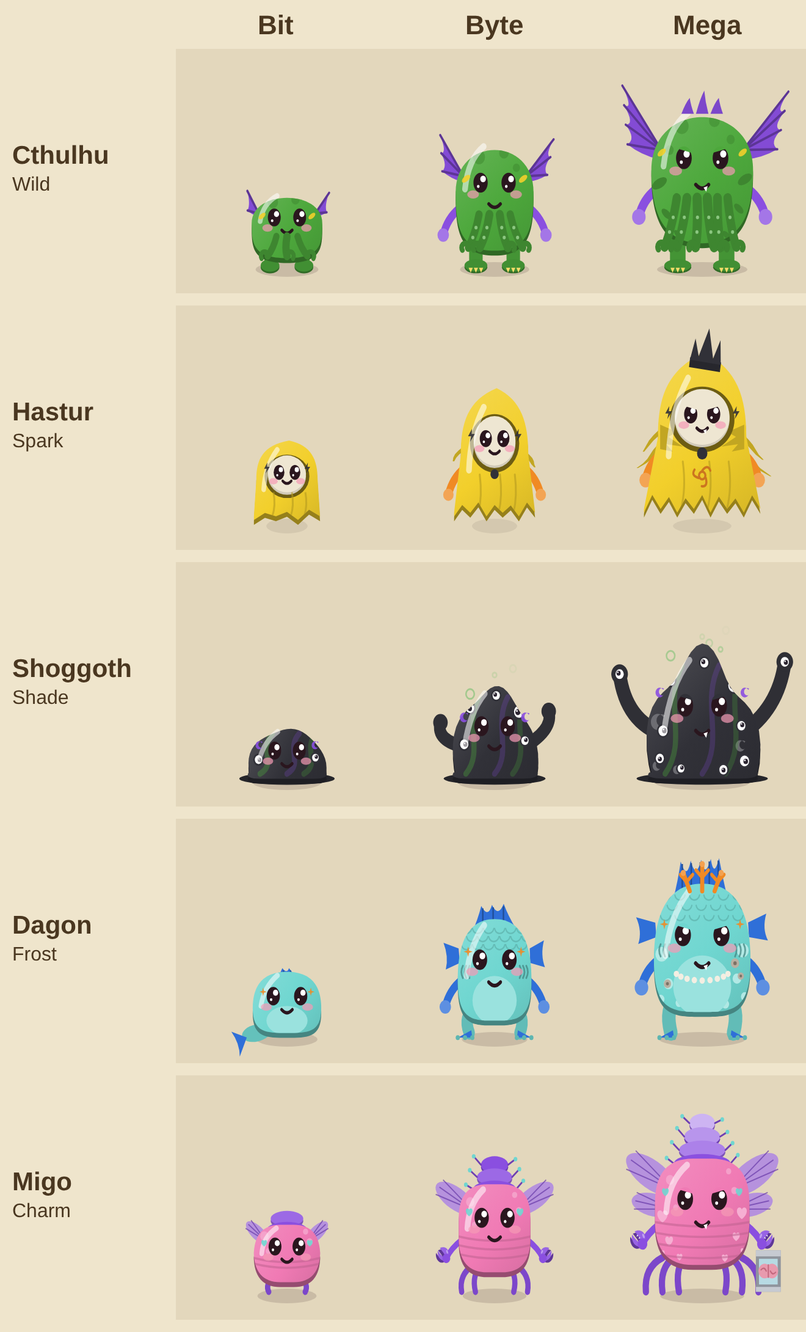
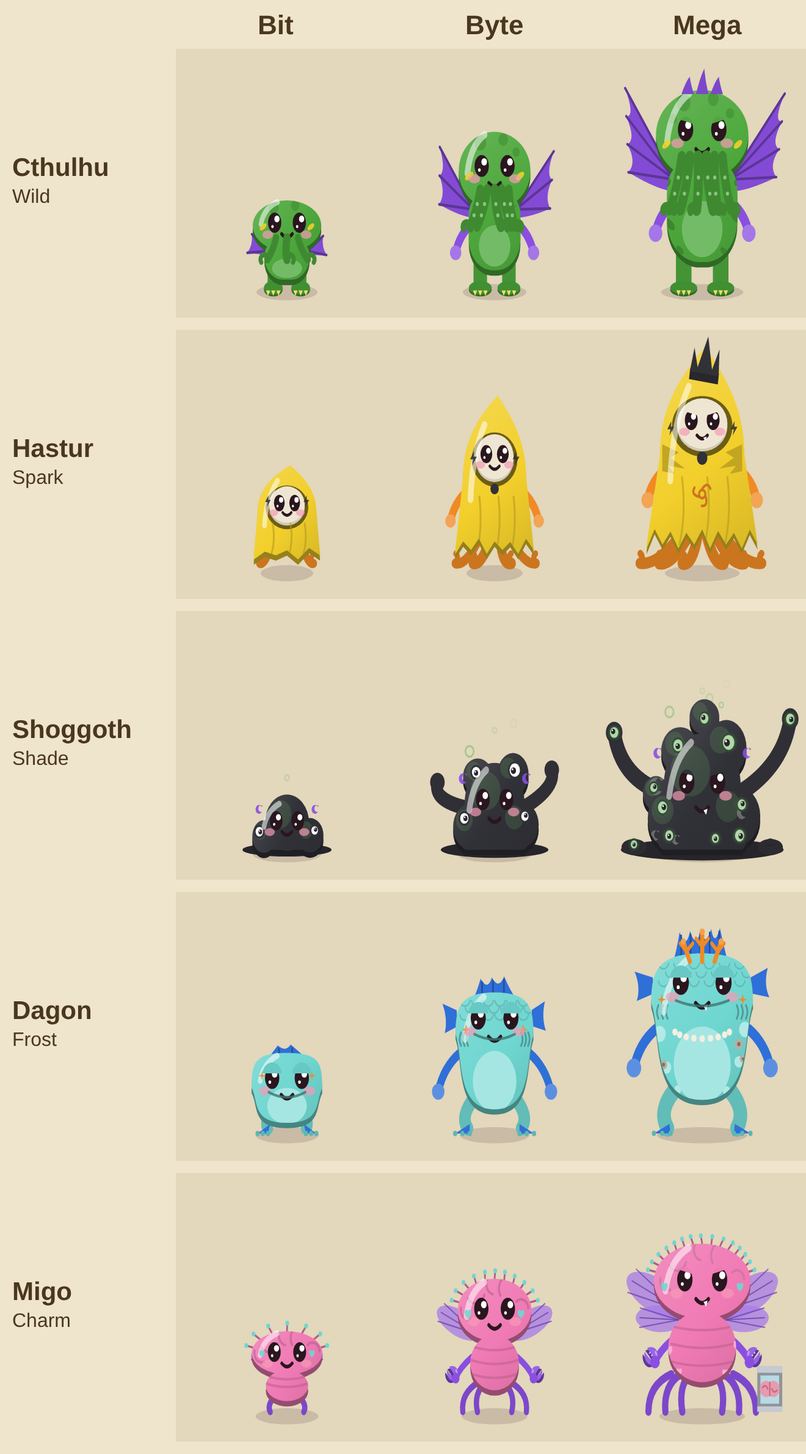
Reshape the horror five from Lovecraft's own descriptions
Cthulhu stands on a round body under its octopus head with long narrow wings, Hastur's
mantle has feelers curling out under the hem, the Shoggoth is a heap of eyed bubbles,
Dagon stands up as a frog-fish, and the Mi-Go has a wrinkled oval head covered in short
feelers on a crab body.

Claude-Session: https://claude.ai/code/session_01MQWzxVrGaM5SWzbnobBWB8

diff --git a/prototype/chibi.js b/prototype/chibi.js
@@ -3291,157 +3291,162 @@ x.feet.push([g.cx, 182, 10]); },
     },
 
     /* ---------- the horror series: cosmic horrors from the Rift, drawn cute ---------- */
-    /* Cthulhu: a squid-headed dome with a beard of face tentacles, bat wings and clawed feet. Nub wings and three tentacles; arms, suckers and bigger wings from Byte; six long tentacles, wide ribbed wings and a ridge of spines at Mega */
+    /* Cthulhu: an octopus head with a beard of feelers on a round standing body, long narrow wings and clawed feet. A big head, a small body and nub wings; arms, suckers and wings up past its head from Byte; six long feelers, towering ribbed wings and a ridge of spines at Mega */
     Cthulhu: {
-      special: true, dims: { Bit: [64, 58], Byte: [78, 78], Mega: [92, 96] }, ll: st => by(st, 6, 8, 10),
-      bottom(st) { return 182 - this.ll(st); }, height(st) { return this.dims[st][1] + this.ll(st) + by(st, 12, 18, 30); },
-      path(c, g) { const R = g.left + g.bw, p = g.bw * by(g.stage, 0.02, 0.06, 0.12); c.beginPath(); c.moveTo(g.left, g.top + g.bh * 0.45);
-        c.bezierCurveTo(g.left, g.top - g.bh * 0.08, R, g.top - g.bh * 0.08, R, g.top + g.bh * 0.45); c.bezierCurveTo(R, g.top + g.bh * 0.78, R - p, g.bot, g.cx, g.bot);
-        c.bezierCurveTo(g.left + p, g.bot, g.left, g.top + g.bh * 0.78, g.left, g.top + g.bh * 0.45); c.closePath(); },
-      arms: 'stub', armW: st => by(st, 0, 7, 8), handR: st => by(st, 0, 5.5, 6.5), shoulderY: 0.6,
-      wing(c, sx, sy, sd, span, h, ribs, col, t) { const fl = Math.sin(t / 320) * 0.12; c.save(); c.translate(sx, sy); c.scale(sd, 1); c.rotate(-0.35 - fl);
-        const tips = []; for (let k = 0; k < ribs; k++) { const f = ribs > 1 ? k / (ribs - 1) : 0; tips.push([span * (1 - f * 0.4), -h + f * h * 1.2]); }
+      special: true, dims: { Bit: [62, 66], Byte: [72, 92], Mega: [84, 112] }, ll: st => by(st, 6, 9, 11),
+      bottom(st) { return 182 - this.ll(st); }, height(st) { return this.dims[st][1] + this.ll(st) + by(st, 14, 34, 52); },
+      hh: g => g.bh * by(g.stage, 0.64, 0.56, 0.52),
+      path(c, g) { const hh = this.hh(g), tw = g.bw * by(g.stage, 0.66, 0.72, 0.76); c.beginPath(); c.ellipse(g.cx, g.top + hh / 2, g.bw / 2, hh / 2, 0, 0, 7);
+        c.moveTo(g.cx + tw / 2, g.top + hh * 0.8); c.roundRect(g.cx - tw / 2, g.top + hh * 0.8, tw, g.bot - g.top - hh * 0.8, [tw * 0.3, tw * 0.3, tw * 0.46, tw * 0.46]); },
+      arms: 'stub', armW: st => by(st, 0, 7, 8), handR: st => by(st, 0, 5.5, 6.5), shoulderY: 0.66, shoulderIn: 0.13,
+      wing(c, sx, sy, sd, span, h, ribs, col, t) { const fl = Math.sin(t / 320) * 0.08; c.save(); c.translate(sx, sy); c.scale(sd, 1); c.rotate(0.35 - fl);
+        const tips = []; for (let k = 0; k < ribs; k++) { const f = ribs > 1 ? k / (ribs - 1) : 0; tips.push([span * (0.55 + f * 0.45), -h * (1 - f * 0.75)]); }
         c.fillStyle = rgb(col); c.beginPath(); c.moveTo(0, 0); c.lineTo(tips[0][0], tips[0][1]);
-        for (let k = 1; k < ribs; k++) { const a = tips[k - 1], b = tips[k]; c.quadraticCurveTo((a[0] + b[0]) * 0.36, (a[1] + b[1]) * 0.36, b[0], b[1]); }
-        c.quadraticCurveTo(span * 0.3, h * 0.3, 0, h * 0.22); c.closePath(); c.fill();
+        for (let k = 1; k < ribs; k++) { const a = tips[k - 1], b = tips[k]; c.quadraticCurveTo((a[0] + b[0]) * 0.4, (a[1] + b[1]) * 0.4, b[0], b[1]); }
+        c.quadraticCurveTo(span * 0.4, h * 0.05, 0, h * 0.12); c.closePath(); c.fill();
         c.strokeStyle = rgb(dk(col, 0.3)); c.lineWidth = 2; c.lineCap = 'round'; for (const [px, py] of tips) { c.beginPath(); c.moveTo(0, 0); c.lineTo(px, py); c.stroke(); } c.restore(); },
-      behind(c, g, x) { const S = g.stage;
-        for (const sd of [-1, 1]) this.wing(c, g.cx + sd * g.bw * 0.4, g.top + g.bh * 0.3, sd, by(S, 18, 34, 54), by(S, 12, 22, 36), by(S, 2, 3, 4), dk(x.parts, 0.05), x.t + sd * 200);
-        for (const sd of [-1, 1]) { const fx = g.cx + sd * g.bw * 0.24, lift = Math.max(0, sd * x.walk) * 4; limb(c, [fx, g.bot - 8, fx, g.bot - 1 - lift / 2, fx, 180 - lift], by(S, 11, 13, 15), dk(x.body, 0.12), sd < 0 ? x.L.legL : x.L.legR, x.t);
+      behind(c, g, x) { const S = g.stage, hh = this.hh(g);
+        for (const sd of [-1, 1]) this.wing(c, g.cx + sd * g.bw * 0.3, g.top + hh * 1.0, sd, by(S, 18, 30, 40), by(S, 16, 54, 80), by(S, 2, 3, 4), dk(x.parts, 0.05), x.t + sd * 200);   // long, narrow wings
+        for (const sd of [-1, 1]) { const fx = g.cx + sd * g.bw * 0.2, lift = Math.max(0, sd * x.walk) * 4; limb(c, [fx, g.bot - 8, fx, g.bot - 1 - lift / 2, fx, 180 - lift], by(S, 11, 13, 15), dk(x.body, 0.12), sd < 0 ? x.L.legL : x.L.legR, x.t);
           blob(c, fx, 182 - lift, by(S, 9, 11, 13), 5, dk(x.body, 0.15), sd < 0 ? x.L.legL : x.L.legR, x.t, 'foot'); x.feet.push([fx, 182 - lift, 9]);
-          if (S !== 'Bit') { c.fillStyle = rgb(lt(x.acc, 0.3)); for (const k of [-1, 0, 1]) { const tx = fx + k * 5; c.beginPath(); c.moveTo(tx - 2, 184 - lift); c.lineTo(tx, 188 - lift); c.lineTo(tx + 2, 184 - lift); c.closePath(); c.fill(); } } } },   // little claws on its toes
-      inside(c, g, x) { const S = g.stage; c.fillStyle = rgba(dk(x.body, 0.18), 0.55);   // spots on the dome
-        for (const [fx, fy, r] of [[0.3, 0.12, 5], [0.62, 0.08, 4], [0.78, 0.22, 3], [0.18, 0.3, 3]].slice(0, by(S, 2, 3, 4))) { c.beginPath(); c.arc(g.left + g.bw * fx, g.top + g.bh * fy, r * by(S, 1, 1.15, 1.3), 0, 7); c.fill(); } },
-      front(c, g, x) { const S = g.stage, n = by(S, 3, 4, 6), y0 = g.top + g.bh * 0.66, len = by(S, 16, 27, 40), span = g.bw * by(S, 0.3, 0.4, 0.5), col = dk(x.body, 0.2);
-        if (!x.back) for (let i = 0; i < n; i++) { const f = n > 1 ? i / (n - 1) - 0.5 : 0, tx = g.cx + f * span, sw = Math.sin(x.t / 300 + i * 1.7) * 4, cu = f < 0 ? -1 : 1;   // the beard of tentacles
+          c.fillStyle = rgb(lt(x.acc, 0.3)); for (const k of [-1, 0, 1]) { const tx = fx + k * 5; c.beginPath(); c.moveTo(tx - 2, 184 - lift); c.lineTo(tx, 188 - lift); c.lineTo(tx + 2, 184 - lift); c.closePath(); c.fill(); } } },   // claws on its toes
+      inside(c, g, x) { const S = g.stage, hh = this.hh(g); c.fillStyle = rgba(dk(x.body, 0.18), 0.55);   // spots on the head
+        for (const [fx, fy, r] of [[0.3, 0.14, 5], [0.62, 0.1, 4], [0.8, 0.26, 3], [0.18, 0.32, 3]].slice(0, by(S, 2, 3, 4))) { c.beginPath(); c.arc(g.left + g.bw * fx, g.top + hh * fy, r * by(S, 1, 1.15, 1.3), 0, 7); c.fill(); }
+        c.fillStyle = rgb(lt(x.body, 0.22)); c.beginPath(); c.ellipse(g.cx, g.bot - (g.bot - g.top - hh) * 0.4, g.bw * 0.22, (g.bot - g.top - hh) * 0.34, 0, 0, 7); c.fill();   // a round belly
+        if (S !== 'Bit') { c.strokeStyle = rgba(dk(x.body, 0.2), 0.5); c.lineWidth = 1.2; for (let k = 0; k < 3; k++) { const y = g.top + hh * 0.95 + k * 7; c.beginPath(); c.moveTo(g.cx - g.bw * 0.3, y); c.lineTo(g.cx - g.bw * 0.24, y + 3); c.moveTo(g.cx + g.bw * 0.3, y); c.lineTo(g.cx + g.bw * 0.24, y + 3); c.stroke(); } } },   // scales
+      front(c, g, x) { const S = g.stage, hh = this.hh(g), n = by(S, 3, 5, 6), y0 = g.top + hh * 0.74, len = by(S, 16, 28, 40), span = g.bw * by(S, 0.32, 0.4, 0.44), col = dk(x.body, 0.18);
+        if (!x.back) for (let i = 0; i < n; i++) { const f = n > 1 ? i / (n - 1) - 0.5 : 0, tx = g.cx + f * span, sw = Math.sin(x.t / 300 + i * 1.7) * 4, cu = f < 0 ? -1 : 1;   // the beard of feelers
           const q = [tx, y0, tx + f * 6 + sw * 0.5, y0 + len * 0.6, tx + f * 10 + sw + cu * 4, y0 + len]; limb(c, q, by(S, 7, 8, 9) - Math.abs(f) * 2, col, x.L.armL, x.t);
           c.strokeStyle = rgb(col); c.lineWidth = by(S, 4, 4.5, 5); c.lineCap = 'round'; c.beginPath(); c.arc(q[4] + cu * 3, q[5], 3.5, cu > 0 ? Math.PI : 0, cu > 0 ? Math.PI * 2.2 : -Math.PI * 1.2, cu < 0); c.stroke();
           if (S !== 'Bit') { c.fillStyle = rgb(lt(x.body, 0.35)); for (const k of [0.35, 0.65]) { const p = qpt(q, k); c.beginPath(); c.arc(p[0], p[1], 1.5, 0, 7); c.fill(); } } }   // suckers
         if (S === 'Mega') { c.fillStyle = rgb(dk(x.parts, 0.1)); for (const [dx, h] of [[-14, 10], [0, 16], [14, 10]]) { c.beginPath(); c.moveTo(g.cx + dx - 6, g.top + 3); c.quadraticCurveTo(g.cx + dx - 2, g.top - h * 0.6, g.cx + dx + 2, g.top - h); c.quadraticCurveTo(g.cx + dx + 3, g.top - h * 0.4, g.cx + dx + 6, g.top + 3); c.closePath(); c.fill(); } } },   // a ridge of spines
-      hl: g => [g.left + g.bw * 0.12, g.top + g.bh * 0.42, g.left + g.bw * 0.16, g.top + g.bh * 0.14, g.left + g.bw * 0.36, g.top + g.bh * 0.02],
+      hl: g => [g.left + g.bw * 0.12, g.top + g.bh * 0.3, g.left + g.bw * 0.16, g.top + g.bh * 0.1, g.left + g.bw * 0.36, g.top + g.bh * 0.02],
       head: g => [g.cx, g.top, g.bw * 0.46],
-      face: (c, g, x, look) => faceTwo(c, g, x, look, { ey: 0.36, ex: 0.18, my: 0.56, s: by(g.stage, 0.72, 0.8, 0.88) })
+      face(c, g, x, look) { const hh = FAM.Cthulhu.hh(g); return faceTwo(c, g, x, look, { ey: hh * 0.44 / g.bh, ex: 0.18, my: hh * 0.66 / g.bh, s: by(g.stage, 0.74, 0.8, 0.86) }); }
     },
-    /* Hastur: the King in Yellow. A little hooded cloak with a pale mask peeking out and a ragged hem; sleeves, pale hands and a longer, more torn hem from Byte; a tall crooked crown, a cape of tatters and a curling sign on its chest at Mega */
+    /* Hastur: the King in Yellow. A tall hood with a pale mask in it, a ragged mantle and feelers curling out from under the hem. Two feelers; sleeves, pale hands and four feelers from Byte; a tall crooked crown, six feelers and a curling sign on its chest at Mega */
     Hastur: {
-      special: true, float: true, dims: { Bit: [56, 64], Byte: [68, 82], Mega: [80, 100] }, slots: { feet: false },
-      bottom(st) { return by(st, 176, 174, 172); }, height(st) { return this.dims[st][1] + by(st, 12, 18, 44) + (182 - this.bottom(st)); },
+      special: true, dims: { Bit: [54, 66], Byte: [64, 88], Mega: [76, 110] }, slots: { feet: false },
+      bottom(st) { return by(st, 172, 168, 164); }, height(st) { return this.dims[st][1] + by(st, 14, 20, 46) + (182 - this.bottom(st)); },
       mask: [238, 230, 210],
-      path(c, g, x) { const S = g.stage, R = g.left + g.bw, fl = g.bw * by(S, 0.04, 0.1, 0.16), n = by(S, 3, 5, 7), j = by(S, 4, 7, 10), t = x ? x.t : 0, tip = by(S, 4, 10, 14);
-        c.beginPath(); c.moveTo(g.cx + 2, g.top - tip); c.bezierCurveTo(g.cx + g.bw * 0.4, g.top, R, g.top + g.bh * 0.2, R, g.top + g.bh * 0.48); c.lineTo(R + fl, g.bot);
+      path(c, g, x) { const S = g.stage, R = g.left + g.bw, fl = g.bw * by(S, 0.06, 0.12, 0.16), n = by(S, 3, 5, 7), j = by(S, 4, 7, 10), t = x ? x.t : 0, tip = by(S, 8, 16, 22);
+        c.beginPath(); c.moveTo(g.cx + 3, g.top - tip); c.bezierCurveTo(g.cx + g.bw * 0.3, g.top + g.bh * 0.02, R, g.top + g.bh * 0.2, R, g.top + g.bh * 0.46); c.lineTo(R + fl, g.bot);
         for (let i = 1; i <= n * 2; i++) { const f = i / (n * 2), px = R + fl - f * (g.bw + fl * 2), w = Math.sin(t / 260 + i) * 1.5; c.lineTo(px, i % 2 ? g.bot - j + w : g.bot + (i % 4 === 2 ? 3 : 0)); }   // the ragged hem
-        c.lineTo(g.left - fl, g.bot); c.lineTo(g.left, g.top + g.bh * 0.48); c.bezierCurveTo(g.left, g.top + g.bh * 0.2, g.cx - g.bw * 0.4, g.top, g.cx + 2, g.top - tip); c.closePath(); },
-      arms: 'stub', armW: st => by(st, 0, 7, 8), handR: st => by(st, 0, 5, 6), shoulderY: 0.6,
+        c.lineTo(g.left - fl, g.bot); c.lineTo(g.left, g.top + g.bh * 0.46); c.bezierCurveTo(g.left, g.top + g.bh * 0.2, g.cx - g.bw * 0.3, g.top + g.bh * 0.02, g.cx + 3, g.top - tip); c.closePath(); },
+      arms: 'stub', armW: st => by(st, 0, 7, 8), handR: st => by(st, 0, 5, 6), shoulderY: 0.56,
       sign(c, cx, cy, r, col) { c.strokeStyle = col; c.lineWidth = 2; c.lineCap = 'round'; c.beginPath(); c.arc(cx, cy, r * 0.28, 0, 7); c.stroke();   // its own sign: three hooks round a ring
         for (let k = 0; k < 3; k++) { const a = k * Math.PI * 2 / 3 - Math.PI / 2; c.beginPath(); c.moveTo(cx + Math.cos(a) * r * 0.36, cy + Math.sin(a) * r * 0.36);
           c.quadraticCurveTo(cx + Math.cos(a + 0.5) * r, cy + Math.sin(a + 0.5) * r, cx + Math.cos(a + 1.1) * r * 0.8, cy + Math.sin(a + 1.1) * r * 0.8); c.stroke(); } },
-      behind(c, g, x) { const S = g.stage; if (S === 'Bit') return; const n = by(S, 0, 2, 4), col = dk(x.body, 0.2);   // tatters streaming off its back
-        for (let k = 0; k < n; k++) { const sd = k % 2 ? 1 : -1, x0 = g.cx + sd * g.bw * (0.3 + k * 0.05), y0 = g.top + g.bh * (0.35 + k * 0.08), len = by(S, 0, 22, 34) - k * 3;
-          const P = i => { const f = i / 6, w = Math.sin(x.t / 220 + k + i * 0.9) * 3 * f; return [x0 + sd * (len * f * 1.0 + w), y0 + len * f * 0.8]; };   // each strip hangs and flutters out to the side
-          c.fillStyle = rgb(col); c.beginPath(); for (let i = 0; i <= 6; i++) { const [px, py] = P(i), hw = 5 * (1 - i / 7); i ? c.lineTo(px - sd * hw, py) : c.moveTo(px - sd * hw, py); }
-          for (let i = 6; i >= 0; i--) { const [px, py] = P(i), hw = 5 * (1 - i / 7); c.lineTo(px + sd * hw, py); } c.closePath(); c.fill(); } },
-      inside(c, g, x) { const S = g.stage, mx = g.cx, my = g.top + g.bh * by(S, 0.4, 0.36, 0.34), rx = g.bw * 0.31, ry = g.bh * by(S, 0.26, 0.22, 0.2);
-        c.fillStyle = rgb(dk(x.body, 0.55)); c.beginPath(); c.ellipse(mx, my + 2, rx * 1.18, ry * 1.18, 0, 0, 7); c.fill();   // the dark inside of the hood
+      behind(c, g, x) { const S = g.stage, n = by(S, 2, 4, 6), col = dk(x.parts, 0.15), span = g.bw * by(S, 0.5, 0.7, 0.9);   // feelers curling out from under the hem
+        for (let i = 0; i < n; i++) { const f = i / (n - 1) - 0.5, sd = f < 0 ? -1 : 1, rx = g.cx + f * g.bw * 0.5, ex = g.cx + f * span * 1.4 + sd * 8, sw = Math.sin(x.t / 340 + i * 1.3) * 3;
+          const q = [rx, g.bot - 8, rx + f * span * 0.6 + sw, 180, ex + sw, 178]; limb(c, q, by(S, 8, 9, 10) - Math.abs(f) * 3, col, sd < 0 ? x.L.legL : x.L.legR, x.t);
+          c.strokeStyle = rgb(col); c.lineWidth = by(S, 4, 5, 5.5); c.lineCap = 'round'; c.beginPath(); c.arc(ex + sw + sd * 2, 174, 4, sd > 0 ? Math.PI * 0.6 : Math.PI * 0.4, sd > 0 ? -Math.PI * 0.7 : Math.PI * 1.7, sd < 0); c.stroke(); x.feet.push([ex, 180, 5]); } },
+      inside(c, g, x) { const S = g.stage, mx = g.cx, my = g.top + g.bh * by(S, 0.36, 0.3, 0.28), rx = g.bw * 0.3, ry = g.bh * by(S, 0.23, 0.17, 0.15);
+        c.fillStyle = rgb(dk(x.body, 0.55)); c.beginPath(); c.ellipse(mx, my + 2, rx * 1.2, ry * 1.2, 0, 0, 7); c.fill();   // the dark inside of the hood
         c.fillStyle = rgb(dk(this.mask, 0.12)); c.beginPath(); c.ellipse(mx, my + 2, rx, ry, 0, 0, 7); c.fill(); c.fillStyle = rgb(this.mask); c.beginPath(); c.ellipse(mx, my, rx, ry, 0, 0, 7); c.fill();   // the pale mask
-        c.strokeStyle = rgba(dk(x.body, 0.25), 0.6); c.lineWidth = 1.8; for (const f of [-0.22, 0.08, 0.3]) { c.beginPath(); c.moveTo(g.cx + g.bw * f, g.top + g.bh * 0.66); c.quadraticCurveTo(g.cx + g.bw * (f + 0.04), g.top + g.bh * 0.85, g.cx + g.bw * (f - 0.02), g.bot); c.stroke(); }   // folds
+        c.strokeStyle = rgba(dk(x.body, 0.25), 0.6); c.lineWidth = 1.8; for (const f of [-0.24, 0.06, 0.3]) { c.beginPath(); c.moveTo(g.cx + g.bw * f, g.top + g.bh * 0.6); c.quadraticCurveTo(g.cx + g.bw * (f + 0.05), g.top + g.bh * 0.82, g.cx + g.bw * (f - 0.03), g.bot); c.stroke(); }   // folds
         if (S !== 'Bit') { c.fillStyle = rgb(x.acc); c.beginPath(); c.arc(g.cx, my + ry + 7, by(S, 0, 4, 5), 0, 7); c.fill(); }   // a clasp under the mask
-        if (S === 'Mega' && !x.back) this.sign(c, g.cx, g.top + g.bh * 0.76, 11, rgb(dk(x.parts, 0.15))); },
-      front(c, g, x) { if (g.stage !== 'Mega') return; const cx = g.cx + 3, by0 = g.top - 6, col = x.acc;   // a tall, crooked crown on the hood
-        c.save(); c.translate(cx, by0); c.rotate(0.14); c.fillStyle = rgb(dk(col, 0.2)); c.fillRect(-15, -2, 30, 8); c.fillStyle = rgb(col); c.beginPath(); c.moveTo(-15, 0);
-        for (const [px, py] of [[-12, -18], [-7, -4], [0, -28], [7, -4], [12, -20], [15, 0]]) c.lineTo(px, py); c.closePath(); c.fill(); c.restore(); },
+        if (S === 'Mega' && !x.back) this.sign(c, g.cx, g.top + g.bh * 0.7, 11, rgb(dk(x.parts, 0.15))); },
+      front(c, g, x) { if (g.stage !== 'Mega') return; const cx = g.cx + 2, by0 = g.top - 2, col = x.acc;   // a tall, crooked crown on the hood
+        c.save(); c.translate(cx, by0); c.rotate(0.14); c.fillStyle = rgb(dk(col, 0.2)); c.fillRect(-14, -2, 28, 8); c.fillStyle = rgb(col); c.beginPath(); c.moveTo(-14, 0);
+        for (const [px, py] of [[-12, -18], [-7, -4], [0, -28], [7, -4], [12, -20], [14, 0]]) c.lineTo(px, py); c.closePath(); c.fill(); c.restore(); },
       hl: g => [g.left + g.bw * 0.12, g.top + g.bh * 0.62, g.left + g.bw * 0.14, g.top + g.bh * 0.3, g.left + g.bw * 0.34, g.top + g.bh * 0.06],
       head: g => [g.cx, g.top + 4, g.bw * 0.4],
-      face: (c, g, x, look) => faceTwo(c, g, x, look, { ey: by(g.stage, 0.38, 0.34, 0.32), ex: 0.13, my: by(g.stage, 0.5, 0.45, 0.42), lidCol: FAM.Hastur.mask, s: by(g.stage, 0.6, 0.68, 0.74) })
+      face: (c, g, x, look) => faceTwo(c, g, x, look, { ey: by(g.stage, 0.34, 0.28, 0.26), ex: 0.13, my: by(g.stage, 0.46, 0.37, 0.35), lidCol: FAM.Hastur.mask, s: by(g.stage, 0.6, 0.66, 0.72) })
     },
-    /* Shoggoth: a heap of dark goo dotted with blinking eyes. A low puddle-blob with two spare eyes; a taller heap, more eyes, two reaching blobs and bubbles from Byte; a tall lumpy mound with nine eyes and eyes on the ends of its blobs at Mega */
+    /* Shoggoth: a heap of bubbling goo with eyes forming all over it. Three bubbles and two spare eyes; five bubbles, more eyes and two reaching blobs from Byte; seven bubbles, eyes that glow, blobs with eyes on the ends and goo spreading over the ground at Mega */
     Shoggoth: {
-      special: true, dims: { Bit: [70, 46], Byte: [82, 66], Mega: [96, 90] }, slots: { feet: false },
+      special: true, dims: { Bit: [70, 50], Byte: [84, 70], Mega: [100, 92] }, slots: { feet: false },
       bottom() { return 182; }, height(st) { return this.dims[st][1] + by(st, 8, 16, 26); },
-      path(c, g, x) { const t = x ? x.t : 0, base = g.bot - 5, rx = g.bw / 2, ry = g.bh - 5, lump = by(g.stage, 0.03, 0.06, 0.1), n = 30; c.beginPath();
-        for (let i = 0; i <= n; i++) { const a = Math.PI + i / n * Math.PI, w = 1 + lump * Math.sin(a * 5 + t / 400) + 0.03 * Math.sin(a * 3 - t / 300); const px = g.cx + Math.cos(a) * rx * w, py = base + Math.sin(a) * ry * w;
-          i ? c.lineTo(px, py) : c.moveTo(px, py); }
-        c.quadraticCurveTo(g.cx + rx * 1.1, g.bot, g.cx + rx * 0.7, g.bot); c.lineTo(g.cx - rx * 0.7, g.bot); c.quadraticCurveTo(g.cx - rx * 1.1, g.bot, g.cx - rx, base); c.closePath(); },
-      eyeAt(c, px, py, r, t, k, lidCol) { const shut = (t + k * 913) % 3400 < 140; c.fillStyle = rgb(lidCol); c.beginPath(); c.arc(px, py, r + 1.5, 0, 7); c.fill();
+      bubbles(g) { const S = g.stage, W = g.bw, H = g.bh, B = g.bot;   // [x, y, r] as fractions: one big middle bubble and smaller ones heaped round it
+        const L = [[0.5, 0.55, 0.36], [0.2, 0.78, 0.2], [0.8, 0.76, 0.22], [0.3, 0.3, 0.17], [0.72, 0.28, 0.19], [0.08, 0.6, 0.12], [0.52, 0.06, 0.13]];
+        return L.slice(0, by(S, 3, 5, 7)).map(([fx, fy, fr]) => [g.left + W * fx, g.top + H * fy, Math.min(W, H * 1.3) * fr]); },
+      path(c, g, x) { const t = x ? x.t : 0; c.beginPath(); this.bubbles(g).forEach(([bx, by0, r], k) => { const w = 1 + 0.04 * Math.sin(t / 300 + k * 1.7); c.moveTo(bx + r * w, by0); c.ellipse(bx, by0, r * w, r * (2 - w), 0, 0, 7); });
+        c.moveTo(g.left + g.bw * 0.9, g.bot); c.roundRect(g.left + g.bw * 0.1, g.top + g.bh * 0.62, g.bw * 0.8, g.bh * 0.38, 6); },
+      eyeAt(c, px, py, r, t, k, lidCol, glow) { const shut = (t + k * 913) % 3400 < 140; c.fillStyle = rgb(lidCol); c.beginPath(); c.arc(px, py, r + 1.5, 0, 7); c.fill();
         if (shut) { c.strokeStyle = '#2b2430'; c.lineWidth = 1.4; c.beginPath(); c.moveTo(px - r, py); c.quadraticCurveTo(px, py + r * 0.5, px + r, py); c.stroke(); return; }
-        c.fillStyle = '#fff'; c.beginPath(); c.arc(px, py, r, 0, 7); c.fill(); const ox = Math.sin(t / 900 + k) * r * 0.3, oy = Math.cos(t / 700 + k * 2) * r * 0.2;
+        if (glow) { c.save(); c.shadowColor = rgba(glow, 0.9); c.shadowBlur = 6; } c.fillStyle = glow ? rgb(lt(glow, 0.55)) : '#fff'; c.beginPath(); c.arc(px, py, r, 0, 7); c.fill(); if (glow) c.restore();
+        const ox = Math.sin(t / 900 + k) * r * 0.3, oy = Math.cos(t / 700 + k * 2) * r * 0.2;
         c.fillStyle = '#2b2430'; c.beginPath(); c.arc(px + ox, py + oy, r * 0.5, 0, 7); c.fill(); c.fillStyle = '#fff'; c.beginPath(); c.arc(px + ox - r * 0.18, py + oy - r * 0.2, r * 0.16, 0, 7); c.fill(); },
-      behind(c, g, x) { const S = g.stage; c.fillStyle = rgb(dk(x.body, 0.25)); c.beginPath(); c.ellipse(g.cx, 182, g.bw * 0.62, 5, 0, 0, 7); c.fill();   // the puddle it sits in
-        if (S !== 'Bit') for (const sd of [-1, 1]) { const sw = Math.sin(x.t / 380 + sd) * 6, q = [g.cx + sd * g.bw * 0.36, g.bot - g.bh * 0.35, g.cx + sd * g.bw * 0.72, g.bot - g.bh * 0.5 + sw, g.cx + sd * g.bw * by(S, 0, 0.66, 0.78), g.top + g.bh * by(S, 0, 0.3, 0.12) + sw];   // reaching blobs
+      behind(c, g, x) { const S = g.stage; c.fillStyle = rgb(dk(x.body, 0.25)); c.beginPath(); c.ellipse(g.cx, 182, g.bw * by(S, 0.58, 0.64, 0.74), by(S, 5, 6, 8), 0, 0, 7); c.fill();   // goo spreading round it
+        if (S === 'Mega') for (const sd of [-1, 1]) { c.fillStyle = rgb(dk(x.body, 0.12)); c.beginPath(); c.ellipse(g.cx + sd * g.bw * 0.62, 180, 12, 6, 0, 0, 7); c.fill(); this.eyeAt(c, g.cx + sd * g.bw * 0.62, 178, 3, x.t, sd + 9, dk(x.body, 0.12), x.parts); }
+        if (S !== 'Bit') for (const sd of [-1, 1]) { const sw = Math.sin(x.t / 380 + sd) * 6, q = [g.cx + sd * g.bw * 0.34, g.bot - g.bh * 0.4, g.cx + sd * g.bw * 0.74, g.bot - g.bh * 0.55 + sw, g.cx + sd * g.bw * by(S, 0, 0.68, 0.8), g.top + g.bh * by(S, 0, 0.28, 0.12) + sw];   // reaching blobs
           limb(c, q, by(S, 0, 11, 13), dk(x.body, 0.05), sd < 0 ? x.L.armL : x.L.armR, x.t); c.fillStyle = rgb(dk(x.body, 0.05)); c.beginPath(); c.arc(q[4], q[5], by(S, 0, 7, 8), 0, 7); c.fill();
-          if (S === 'Mega') this.eyeAt(c, q[4], q[5], 4, x.t, sd + 5, dk(x.body, 0.05)); }
-        if (S !== 'Bit') for (let k = 0; k < by(S, 0, 3, 5); k++) { const p = ((x.t / 1600) + k / 5) % 1, bx = g.cx + Math.sin(k * 2.3) * g.bw * 0.3, byy = g.top + 6 - p * 26;   // bubbles
+          if (S === 'Mega') this.eyeAt(c, q[4], q[5], 4, x.t, sd + 5, dk(x.body, 0.05), x.parts); }
+        for (let k = 0; k < by(S, 1, 3, 5); k++) { const p = ((x.t / 1600) + k / 5) % 1, bx = g.cx + Math.sin(k * 2.3) * g.bw * 0.3, byy = g.top + 6 - p * 26;   // bubbles popping off the top
           c.strokeStyle = rgba(lt(x.parts, 0.3), 0.7 * (1 - p)); c.lineWidth = 1.5; c.beginPath(); c.arc(bx, byy, 2 + k % 3, 0, 7); c.stroke(); } },
-      inside(c, g, x) { const S = g.stage; c.lineCap = 'round';
-        for (const [f, col, a] of [[0.25, x.parts, 0.35], [0.6, x.acc, 0.22], [0.82, x.parts, 0.25]]) { c.strokeStyle = rgba(col, a); c.lineWidth = 5; c.beginPath(); c.moveTo(g.left + g.bw * (f - 0.1), g.bot - 4);   // an oily sheen
-          c.bezierCurveTo(g.left + g.bw * (f + 0.12), g.top + g.bh * 0.7, g.left + g.bw * (f - 0.12), g.top + g.bh * 0.4, g.left + g.bw * (f + 0.06), g.top + g.bh * 0.1); c.stroke(); }
-        const E = [[0.13, 0.62, 4], [0.87, 0.58, 3.5], [0.2, 0.22, 4], [0.8, 0.26, 5], [0.52, 0.08, 3.5], [0.1, 0.84, 3.5], [0.9, 0.86, 4], [0.3, 0.92, 3], [0.7, 0.93, 3.5]];
-        if (!x.back) E.slice(0, by(S, 2, 5, 9)).forEach(([fx, fy, r], k) => this.eyeAt(c, g.left + g.bw * fx, g.top + g.bh * fy, r * by(S, 0.9, 1, 1.1), x.t, k, x.body)); },
-      hl: g => [g.left + g.bw * 0.14, g.top + g.bh * 0.62, g.left + g.bw * 0.2, g.top + g.bh * 0.26, g.left + g.bw * 0.38, g.top + g.bh * 0.06],
-      head: g => [g.cx, g.top + 4, g.bw * 0.42],
-      face: (c, g, x, look) => faceTwo(c, g, x, look, { ey: by(g.stage, 0.44, 0.42, 0.42), ex: 0.16, my: by(g.stage, 0.7, 0.64, 0.62), s: by(g.stage, 0.72, 0.8, 0.88) })
+      inside(c, g, x) { const S = g.stage;
+        for (const [bx, by0, r] of this.bubbles(g)) { c.fillStyle = rgba(lt(x.parts, 0.2), 0.18); c.beginPath(); c.arc(bx - r * 0.3, by0 - r * 0.3, r * 0.5, 0, 7); c.fill(); }   // a sheen on each bubble
+        const E = [[0.14, 0.7, 4], [0.86, 0.68, 3.5], [0.28, 0.26, 4], [0.74, 0.24, 5], [0.52, 0.07, 3.5], [0.2, 0.9, 3.5], [0.84, 0.9, 4], [0.06, 0.56, 3], [0.62, 0.92, 3]];
+        if (!x.back) E.slice(0, by(S, 2, 5, 9)).forEach(([fx, fy, r], k) => this.eyeAt(c, g.left + g.bw * fx, g.top + g.bh * fy, r * by(S, 0.9, 1, 1.1), x.t, k, x.body, S === 'Mega' ? x.parts : null)); },
+      hl: g => [g.left + g.bw * 0.2, g.top + g.bh * 0.62, g.left + g.bw * 0.24, g.top + g.bh * 0.36, g.left + g.bw * 0.4, g.top + g.bh * 0.24],
+      head: g => [g.cx, g.top + g.bh * 0.2, g.bw * 0.36],
+      face: (c, g, x, look) => faceTwo(c, g, x, look, { ey: 0.52, ex: 0.14, my: 0.7, s: by(g.stage, 0.7, 0.78, 0.86) })
     },
-    /* Dagon: a deep one. A round fish with a little fin on top and a tail; frog legs with webbed feet, arms, ear fins, a crest down its back and gills from Byte; a tall crest, a coral crown, a pearl string and barnacles at Mega */
+    /* Dagon: a deep one, a frog-fish that stands like a person. A round fish head-body with bulging eyes and stubby legs; a taller body, long webbed arms, bent frog legs, gills, a fin down its back and a scaly back from Byte; a coral crown, a string of pearls and barnacles at Mega */
     Dagon: {
-      special: true, dims: { Bit: [62, 56], Byte: [74, 74], Mega: [88, 92] }, ll: st => by(st, 0, 8, 11),
-      bottom(st) { return st === 'Bit' ? 180 : 182 - this.ll(st); }, height(st) { return this.dims[st][1] + (182 - this.bottom(st)) + by(st, 10, 16, 30); },
-      path(c, g) { const R = g.left + g.bw; c.beginPath(); c.moveTo(g.cx, g.top); c.bezierCurveTo(g.cx + g.bw * 0.42, g.top, R, g.top + g.bh * 0.32, R, g.top + g.bh * 0.6);
-        c.bezierCurveTo(R, g.bot, g.cx + g.bw * 0.3, g.bot, g.cx, g.bot); c.bezierCurveTo(g.cx - g.bw * 0.3, g.bot, g.left, g.bot, g.left, g.top + g.bh * 0.6); c.bezierCurveTo(g.left, g.top + g.bh * 0.32, g.cx - g.bw * 0.42, g.top, g.cx, g.top); c.closePath(); },
-      arms: 'stub', armW: st => by(st, 0, 7, 8), handR: st => by(st, 0, 5.5, 6.5), shoulderY: 0.6,
+      special: true, dims: { Bit: [64, 58], Byte: [78, 78], Mega: [92, 96] }, ll: st => by(st, 6, 12, 15),
+      bottom(st) { return 182 - this.ll(st); }, height(st) { return this.dims[st][1] + this.ll(st) + by(st, 14, 22, 34); },
+      path(c, g) { const R = g.left + g.bw, sh = by(g.stage, 0.5, 0.36, 0.34); c.beginPath(); c.moveTo(g.cx, g.top); c.bezierCurveTo(g.cx + g.bw * 0.46, g.top, R, g.top + g.bh * 0.14, R, g.top + g.bh * sh);   // a wide fish head running into a pear body
+        c.bezierCurveTo(R - g.bw * 0.1, g.top + g.bh * (sh + 0.2), R, g.bot, g.cx, g.bot); c.bezierCurveTo(g.left, g.bot, g.left + g.bw * 0.1, g.top + g.bh * (sh + 0.2), g.left, g.top + g.bh * sh);
+        c.bezierCurveTo(g.left, g.top + g.bh * 0.14, g.cx - g.bw * 0.46, g.top, g.cx, g.top); c.closePath(); },
+      arms: 'stub', armW: st => by(st, 0, 7, 8), handR: st => by(st, 0, 6, 7), shoulderY: 0.52, armK: 1.3,
       fin(c, x0, y0, x1, y1, h, n, col, t) { const pts = []; for (let i = 0; i <= n; i++) { const f = i / n; pts.push([x0 + (x1 - x0) * f, y0 + (y1 - y0) * f]); }   // a webbed fin with spines
         c.fillStyle = rgb(col); c.beginPath(); c.moveTo(x0, y0); for (let i = 1; i <= n; i++) { const [px, py] = pts[i], [qx, qy] = pts[i - 1], w = Math.sin(t / 300 + i) * 1.5; c.quadraticCurveTo((px + qx) / 2, (py + qy) / 2 - h * 0.45, px + w, py - h * (i < n ? 1 : 0)); }
         c.lineTo(x1, y1); c.closePath(); c.fill(); c.strokeStyle = rgb(dk(col, 0.3)); c.lineWidth = 1.4; for (let i = 1; i < n; i++) { const [px, py] = pts[i]; c.beginPath(); c.moveTo(px, py + 3); c.lineTo(px, py - h + 2); c.stroke(); } },
       behind(c, g, x) { const S = g.stage, fc = x.parts;
-        if (S === 'Bit') { const sw = Math.sin(x.t / 260) * 0.25; c.save(); c.translate(g.left + g.bw * 0.2, g.bot - 8); c.rotate(-0.3 + sw); c.fillStyle = rgb(dk(x.body, 0.1)); c.beginPath(); c.ellipse(-12, 4, 14, 7, 0.2, 0, 7); c.fill();   // a tail
-          c.fillStyle = rgb(fc); c.beginPath(); c.moveTo(-22, 4); c.lineTo(-34, -6); c.quadraticCurveTo(-30, 6, -34, 16); c.closePath(); c.fill(); c.restore();
-          this.fin(c, g.cx - 10, g.top + 6, g.cx + 10, g.top + 6, 9, 3, fc, x.t); return; }
-        this.fin(c, g.cx - g.bw * 0.3, g.top + g.bh * 0.12, g.cx + g.bw * 0.26, g.top + g.bh * 0.08, by(S, 0, 20, 30), by(S, 0, 4, 6), fc, x.t);   // the crest
-        for (const sd of [-1, 1]) { c.save(); c.translate(g.cx + sd * g.bw * 0.48, g.top + g.bh * 0.36); c.scale(sd, 1); c.rotate(Math.sin(x.t / 400 + sd) * 0.1); c.fillStyle = rgb(fc); c.beginPath(); c.moveTo(0, -6);   // ear fins
-          c.lineTo(by(S, 0, 14, 18), -12); c.quadraticCurveTo(by(S, 0, 10, 13), 0, by(S, 0, 14, 18), 10); c.lineTo(0, 6); c.closePath(); c.fill(); c.restore(); }
-        for (const sd of [-1, 1]) { const hx = g.cx + sd * g.bw * 0.26, fx = hx + sd * 6, lift = Math.max(0, sd * x.walk) * 4;   // frog legs with webbed feet
-          limb(c, [hx, g.bot - 10, hx + sd * 12, g.bot - 4, fx, 180 - lift], by(S, 0, 11, 13), dk(x.body, 0.12), sd < 0 ? x.L.legL : x.L.legR, x.t);
-          c.fillStyle = rgb(fc); c.beginPath(); c.moveTo(fx - sd * 2, 178 - lift); for (const k of [-1, 0, 1]) c.lineTo(fx + sd * 4 + k * 7, 184 - lift); c.closePath(); c.fill();
-          c.fillStyle = rgb(dk(x.body, 0.15)); for (const k of [-1, 0, 1]) { c.beginPath(); c.arc(fx + sd * 4 + k * 7, 184 - lift, 2, 0, 7); c.fill(); } x.feet.push([fx, 182 - lift, 9]); } },
-      inside(c, g, x) { const S = g.stage; c.fillStyle = rgb(lt(x.body, 0.3)); c.beginPath(); c.ellipse(g.cx, g.bot - g.bh * 0.2, g.bw * 0.3, g.bh * 0.24, 0, 0, 7); c.fill();   // a pale belly
-        if (S !== 'Bit') { c.strokeStyle = rgba(dk(x.body, 0.25), 0.5); c.lineWidth = 1.2; for (let r = 0; r < 3; r++) for (let k = 0; k < 6; k++) { const px = g.left + g.bw * (0.12 + k * 0.15 + (r % 2) * 0.07), py = g.top + g.bh * (0.08 + r * 0.08);   // scales
+        this.fin(c, g.cx - g.bw * 0.3, g.top + g.bh * 0.1, g.cx + g.bw * 0.26, g.top + g.bh * 0.06, by(S, 10, 18, 26), by(S, 3, 4, 6), fc, x.t);   // the fin over its head
+        if (S !== 'Bit') for (const sd of [-1, 1]) { c.save(); c.translate(g.cx + sd * g.bw * 0.48, g.top + g.bh * 0.22); c.scale(sd, 1); c.rotate(Math.sin(x.t / 400 + sd) * 0.1); c.fillStyle = rgb(fc); c.beginPath(); c.moveTo(0, -6);   // fins where ears would be
+          c.lineTo(by(S, 0, 13, 17), -12); c.quadraticCurveTo(by(S, 0, 9, 12), 0, by(S, 0, 13, 17), 10); c.lineTo(0, 6); c.closePath(); c.fill(); c.restore(); }
+        for (const sd of [-1, 1]) { const hx = g.cx + sd * g.bw * 0.24, fx = hx + sd * by(S, 2, 8, 10), lift = Math.max(0, sd * x.walk) * 5;   // bent frog legs with webbed feet
+          limb(c, [hx, g.bot - 10, hx + sd * by(S, 6, 16, 20), g.bot + this.ll(S) * 0.3, fx, 180 - lift], by(S, 10, 11, 13), dk(x.body, 0.12), sd < 0 ? x.L.legL : x.L.legR, x.t);
+          c.fillStyle = rgb(fc); c.beginPath(); c.moveTo(fx - sd * 2, 177 - lift); for (const k of [-1, 0, 1]) c.lineTo(fx + sd * 5 + k * by(S, 5, 7, 8), 184 - lift); c.closePath(); c.fill();
+          c.fillStyle = rgb(dk(x.body, 0.15)); for (const k of [-1, 0, 1]) { c.beginPath(); c.arc(fx + sd * 5 + k * by(S, 5, 7, 8), 184 - lift, 2, 0, 7); c.fill(); } x.feet.push([fx, 182 - lift, 9]); } },
+      inside(c, g, x) { const S = g.stage; c.fillStyle = rgb(lt(x.body, 0.38)); c.beginPath(); c.ellipse(g.cx, g.bot - g.bh * 0.24, g.bw * 0.28, g.bh * 0.26, 0, 0, 7); c.fill();   // a pale belly
+        if (S !== 'Bit') { c.strokeStyle = rgba(dk(x.body, 0.25), 0.5); c.lineWidth = 1.2; for (let r = 0; r < 3; r++) for (let k = 0; k < 6; k++) { const px = g.left + g.bw * (0.12 + k * 0.15 + (r % 2) * 0.07), py = g.top + g.bh * (0.06 + r * 0.06);   // scales
             c.beginPath(); c.arc(px, py, 5, 0.2, Math.PI - 0.2); c.stroke(); }
-          c.strokeStyle = rgba(dk(x.body, 0.35), 0.8); c.lineWidth = 1.6; for (const sd of [-1, 1]) for (let k = 0; k < 3; k++) { const gx = g.cx + sd * g.bw * (0.34 + k * 0.045), gy = g.top + g.bh * 0.52;   // gills
+          c.strokeStyle = rgba(dk(x.body, 0.35), 0.8); c.lineWidth = 1.6; for (const sd of [-1, 1]) for (let k = 0; k < 3; k++) { const gx = g.cx + sd * g.bw * (0.34 + k * 0.045), gy = g.top + g.bh * 0.4;   // gills
             c.beginPath(); c.moveTo(gx, gy - 5); c.quadraticCurveTo(gx + sd * 3, gy, gx, gy + 5); c.stroke(); } }
-        if (S === 'Mega' && !x.back) { c.fillStyle = '#f4eee2'; for (let k = 0; k < 9; k++) { const f = k / 8, a = Math.PI * (0.15 + f * 0.7); c.beginPath(); c.arc(g.cx - Math.cos(a) * g.bw * 0.3, g.top + g.bh * 0.66 + Math.sin(a) * 10, 2.6, 0, 7); c.fill(); }   // a string of pearls
-          c.fillStyle = '#b8b0a2'; for (const [fx, fy, r] of [[0.84, 0.62, 4], [0.9, 0.72, 3], [0.14, 0.78, 3.5]]) { c.beginPath(); c.arc(g.left + g.bw * fx, g.top + g.bh * fy, r, 0, 7); c.fill(); c.fillStyle = '#7a7266'; c.beginPath(); c.arc(g.left + g.bw * fx, g.top + g.bh * fy, r * 0.4, 0, 7); c.fill(); c.fillStyle = '#b8b0a2'; } } },   // barnacles
+        if (S === 'Mega' && !x.back) { c.fillStyle = '#f4eee2'; for (let k = 0; k < 9; k++) { const f = k / 8, a = Math.PI * (0.15 + f * 0.7); c.beginPath(); c.arc(g.cx - Math.cos(a) * g.bw * 0.3, g.top + g.bh * 0.5 + Math.sin(a) * 9, 2.6, 0, 7); c.fill(); }   // a string of pearls
+          for (const [fx, fy, r] of [[0.86, 0.62, 4], [0.9, 0.72, 3], [0.12, 0.76, 3.5]]) { c.fillStyle = '#b8b0a2'; c.beginPath(); c.arc(g.left + g.bw * fx, g.top + g.bh * fy, r, 0, 7); c.fill(); c.fillStyle = '#7a7266'; c.beginPath(); c.arc(g.left + g.bw * fx, g.top + g.bh * fy, r * 0.4, 0, 7); c.fill(); } } },   // barnacles
       front(c, g, x) { if (g.stage !== 'Mega') return; const col = x.acc; c.strokeStyle = rgb(col); c.lineCap = 'round';   // a coral crown
         for (const [dx, h, a] of [[-12, 16, -0.4], [0, 22, 0], [12, 16, 0.4]]) { const bx = g.cx + dx, bt = g.top + 6, tx = bx + Math.sin(a) * h, ty = bt - Math.cos(a) * h; c.lineWidth = 4; c.beginPath(); c.moveTo(bx, bt); c.lineTo(tx, ty); c.stroke();
           c.lineWidth = 3; for (const sd of [-1, 1]) { const mx = (bx + tx) / 2, my = (bt + ty) / 2; c.beginPath(); c.moveTo(mx, my); c.lineTo(mx + sd * 6, my - 6); c.stroke(); } c.fillStyle = rgb(lt(col, 0.2)); c.beginPath(); c.arc(tx, ty, 2.5, 0, 7); c.fill(); } },
-      hl: g => [g.left + g.bw * 0.12, g.top + g.bh * 0.56, g.left + g.bw * 0.16, g.top + g.bh * 0.26, g.left + g.bw * 0.36, g.top + g.bh * 0.06],
-      head: g => [g.cx, g.top + 4, g.bw * 0.42],
-      face: (c, g, x, look) => faceTwo(c, g, x, look, { ey: 0.4, ex: 0.2, my: 0.62, s: by(g.stage, 0.74, 0.82, 0.9) })
+      hl: g => [g.left + g.bw * 0.12, g.top + g.bh * 0.4, g.left + g.bw * 0.16, g.top + g.bh * 0.16, g.left + g.bw * 0.36, g.top + g.bh * 0.04],
+      head: g => [g.cx, g.top + 2, g.bw * 0.44],
+      face(c, g, x, look) { const S = g.stage, ey = by(S, 0.36, 0.22, 0.2), fi = faceTwo(c, g, x, look, { ey, ex: 0.21, my: ey + by(S, 0.24, 0.16, 0.14), s: by(S, 0.8, 0.84, 0.9) });
+        if (x.back) return fi; c.fillStyle = rgb(dk(x.body, 0.06)); for (const sd of [-1, 1]) { c.beginPath(); c.arc(g.cx + sd * fi.ex, fi.ey - 2, 12 * fi.s, Math.PI * 1.05, Math.PI * 1.95); c.fill(); }   // bulging eye ridges
+        c.strokeStyle = rgba(dk(x.body, 0.45), 0.8); c.lineWidth = 2; c.lineCap = 'round'; c.beginPath(); c.moveTo(g.cx - g.bw * 0.26, fi.my - 2); c.quadraticCurveTo(g.cx, fi.my + 7 * fi.s, g.cx + g.bw * 0.26, fi.my - 2); c.stroke();   // a wide fish mouth
+        return fi; }
     },
-    /* Migo: a fungus from the stars. A pink lump with a ringed cone for a head, small wings and two legs; crab claws, feelers on the cone and veined wings from Byte; a taller glowing cone, two pairs of wings, six legs and a brain in a jar at Mega */
+    /* Migo: a fungus from the stars. A big wrinkled oval head covered in short feelers on a small crab body, with stubby wings and two legs; crab claws, four legs and big veined wings from Byte; six legs, two pairs of wings, a glowing head and a brain in a jar at Mega */
     Migo: {
-      special: true, dims: { Bit: [60, 52], Byte: [72, 64], Mega: [86, 76] }, ll: st => by(st, 8, 12, 14),
-      bottom(st) { return 182 - this.ll(st); }, height(st) { return this.dims[st][1] + this.ll(st) + by(st, 24, 34, 48); },
-      path(c, g) { roundBox(c, g.left, g.top, g.bw, g.bh, g.bw * 0.4); },
-      arms: 'claw', armW: st => by(st, 0, 5, 6), clawSz: st => by(st, 0, 9, 11), shoulderY: 0.62,
-      behind(c, g, x) { const S = g.stage, wc = lt(x.parts, 0.25);
-        for (let pr = 0; pr < (S === 'Mega' ? 2 : 1); pr++) for (const sd of [-1, 1]) { const fl = Math.sin(x.t / 140 + pr) * 0.18, wl = by(S, 22, 36, 46) - pr * 10;   // veined wings
-          c.save(); c.translate(g.cx + sd * g.bw * 0.3, g.top + g.bh * (0.3 + pr * 0.18)); c.scale(sd, 1); c.rotate(-0.7 + fl + pr * 0.5); c.fillStyle = rgba(wc, 0.75); c.beginPath(); c.ellipse(wl * 0.55, 0, wl * 0.6, wl * 0.26, 0, 0, 7); c.fill();
+      special: true, dims: { Bit: [64, 58], Byte: [74, 74], Mega: [88, 90] }, ll: st => by(st, 8, 12, 14),
+      bottom(st) { return 182 - this.ll(st); }, height(st) { return this.dims[st][1] + this.ll(st) + by(st, 14, 22, 30); },
+      hh: g => g.bh * by(g.stage, 0.62, 0.56, 0.54),
+      path(c, g) { const hh = this.hh(g), bw2 = g.bw * by(g.stage, 0.6, 0.66, 0.7); c.beginPath(); c.ellipse(g.cx, g.top + hh / 2, g.bw / 2, hh / 2, 0, 0, 7);
+        c.moveTo(g.cx + bw2 / 2, g.top + hh * 0.9); c.ellipse(g.cx, g.top + hh * 0.9 + (g.bh - hh * 0.9) / 2, bw2 / 2, (g.bh - hh * 0.9) / 2, 0, 0, 7); },
+      arms: 'claw', armW: st => by(st, 0, 5, 6), clawSz: st => by(st, 0, 9, 11), shoulderY: 0.7, shoulderIn: 0.14,
+      behind(c, g, x) { const S = g.stage, wc = lt(x.parts, 0.25), hh = this.hh(g);
+        for (let pr = 0; pr < (S === 'Mega' ? 2 : 1); pr++) for (const sd of [-1, 1]) { const fl = Math.sin(x.t / 140 + pr) * 0.18, wl = by(S, 20, 38, 50) - pr * 12;   // veined wings
+          c.save(); c.translate(g.cx + sd * g.bw * 0.22, g.top + hh * (0.9 + pr * 0.12)); c.scale(sd, 1); c.rotate(-0.6 + fl + pr * 0.55); c.fillStyle = rgba(wc, 0.75); c.beginPath(); c.ellipse(wl * 0.55, 0, wl * 0.6, wl * 0.26, 0, 0, 7); c.fill();
           c.strokeStyle = rgba(dk(x.parts, 0.25), 0.7); c.lineWidth = 1; for (const k of [-0.12, 0, 0.12]) { c.beginPath(); c.moveTo(2, 0); c.lineTo(wl * 1.05, wl * k * 1.6); c.stroke(); } c.restore(); }
-        const n = by(S, 1, 2, 3); for (const sd of [-1, 1]) for (let k = 0; k < n; k++) { const hx = g.cx + sd * g.bw * (0.18 + k * 0.12), lift = Math.max(0, Math.sin(x.t / 130 + k * 2 + sd)) * 3 * Math.abs(x.walk), tx = hx + sd * (6 + k * 5);   // jointed legs
-          limb(c, [hx, g.bot - 6, hx + sd * (10 + k * 4), g.bot + 2, tx, 182 - lift], by(S, 5, 5, 6), dk(x.parts, 0.1), sd < 0 ? x.L.legL : x.L.legR, x.t); x.feet.push([tx, 182 - lift, 3]); }
-        const rings = by(S, 2, 3, 4), rh = by(S, 9, 10, 11);   // the ringed cone of a head
-        for (let k = rings - 1; k >= 0; k--) { const ry = g.top + 4 - k * rh, rw = g.bw * (0.3 - k * 0.055), glow = S === 'Mega' ? 0.25 + 0.25 * Math.sin(x.t / 260 - k) : 0, col = k % 2 ? lt(x.parts, 0.15) : x.parts;
-          c.fillStyle = rgb(dk(col, 0.2)); c.beginPath(); c.ellipse(g.cx, ry + 2, rw, rh * 0.7, 0, 0, 7); c.fill(); c.fillStyle = rgb(lt(col, glow)); c.beginPath(); c.ellipse(g.cx, ry, rw, rh * 0.7, 0, 0, 7); c.fill();
-          if (S !== 'Bit') for (const sd of [-1, 1]) { const fx = g.cx + sd * rw, w = Math.sin(x.t / 300 + k + sd) * 2; c.strokeStyle = rgb(dk(x.parts, 0.2)); c.lineWidth = 1.5; c.beginPath(); c.moveTo(fx, ry); c.lineTo(fx + sd * 7, ry - 5 + w); c.stroke();   // feelers
-            c.fillStyle = rgb(x.acc); c.beginPath(); c.arc(fx + sd * 7, ry - 5 + w, 1.8, 0, 7); c.fill(); } }
+        const n = by(S, 1, 2, 3); for (const sd of [-1, 1]) for (let k = 0; k < n; k++) { const hx = g.cx + sd * g.bw * (0.12 + k * 0.1), lift = Math.max(0, Math.sin(x.t / 130 + k * 2 + sd)) * 3 * Math.abs(x.walk), tx = hx + sd * (8 + k * 7);   // jointed legs
+          limb(c, [hx, g.bot - 6, hx + sd * (12 + k * 5), g.bot + 2, tx, 182 - lift], by(S, 5, 5, 6), dk(x.parts, 0.1), sd < 0 ? x.L.legL : x.L.legR, x.t); x.feet.push([tx, 182 - lift, 3]); }
+        const na = by(S, 7, 11, 15); for (let k = 0; k < na; k++) { const a = Math.PI * (1.08 + k / (na - 1) * 0.84), r = g.bw / 2, px = g.cx + Math.cos(a) * r, py = g.top + hh / 2 + Math.sin(a) * hh / 2, w = Math.sin(x.t / 260 + k) * 1.5;   // short feelers all round the head
+          c.strokeStyle = rgb(dk(x.body, 0.25)); c.lineWidth = 1.6; c.beginPath(); c.moveTo(px, py); c.lineTo(px + Math.cos(a) * 6 + w, py + Math.sin(a) * 6); c.stroke(); c.fillStyle = rgb(x.acc); c.beginPath(); c.arc(px + Math.cos(a) * 6 + w, py + Math.sin(a) * 6, 1.8, 0, 7); c.fill(); }
         if (S === 'Mega') { const jx = g.cx + g.bw * 0.7, jw = 24, jh = 34, jy = 182 - jh;   // a brain in a jar beside it
           c.fillStyle = '#8f949c'; c.fillRect(jx - jw / 2, jy, jw, jh); c.fillStyle = '#c6cad1'; c.fillRect(jx - jw / 2, jy, jw, 5); c.fillRect(jx - jw / 2, jy + jh - 4, jw, 4);
           c.fillStyle = 'rgba(190,230,240,.85)'; c.fillRect(jx - jw / 2 + 3, jy + 7, jw - 6, jh - 13); c.fillStyle = '#e89aae'; c.beginPath(); c.arc(jx - 3.5, jy + 17, 6, 0, 7); c.arc(jx + 3.5, jy + 17, 6, 0, 7); c.fill();
           c.strokeStyle = '#c4687e'; c.lineWidth = 1.2; c.beginPath(); c.moveTo(jx, jy + 12); c.lineTo(jx, jy + 22); c.moveTo(jx - 7, jy + 16); c.quadraticCurveTo(jx - 4, jy + 13, jx - 2, jy + 17); c.moveTo(jx + 7, jy + 18); c.quadraticCurveTo(jx + 4, jy + 21, jx + 2, jy + 17); c.stroke(); } },
-      inside(c, g, x) { const S = g.stage; c.strokeStyle = rgba(dk(x.body, 0.2), 0.55); c.lineWidth = 1.8;   // segments
-        for (let k = 1; k <= by(S, 2, 3, 4); k++) { const y = g.top + g.bh * (0.52 + k * 0.1); c.beginPath(); c.moveTo(g.left, y - 2); c.quadraticCurveTo(g.cx, y + 5, g.left + g.bw, y - 2); c.stroke(); }
-        c.fillStyle = rgba(lt(x.body, 0.35), 0.8); for (const [fx, fy, r] of [[0.16, 0.2, 4], [0.84, 0.3, 3], [0.22, 0.46, 2.5], [0.78, 0.12, 2.5]]) { c.beginPath(); c.arc(g.left + g.bw * fx, g.top + g.bh * fy, r, 0, 7); c.fill(); } },   // fungus spots
-      hl: g => [g.left + g.bw * 0.12, g.top + g.bh * 0.5, g.left + g.bw * 0.14, g.top + g.bh * 0.22, g.left + g.bw * 0.34, g.top + g.bh * 0.06],
-      head: g => [g.cx, g.top + 2, g.bw * 0.44],
-      face: (c, g, x, look) => faceTwo(c, g, x, look, { ey: 0.38, ex: 0.18, my: 0.6, s: by(g.stage, 0.72, 0.8, 0.88) })
+      inside(c, g, x) { const S = g.stage, hh = this.hh(g), glow = S === 'Mega' ? 0.25 + 0.2 * Math.sin(x.t / 300) : 0;
+        c.strokeStyle = rgba(lt(dk(x.body, 0.22), glow), 0.6); c.lineWidth = 2; c.lineCap = 'round';   // the wrinkles of its head
+        for (const [fx, fy, a, r] of [[0.24, 0.2, 0.3, 9], [0.7, 0.16, 2.6, 10], [0.14, 0.5, 1.2, 7], [0.86, 0.48, 4, 7], [0.5, 0.08, 1.8, 8]]) { c.beginPath(); c.arc(g.left + g.bw * fx, g.top + hh * fy, r, a, a + 2.2); c.stroke(); }
+        c.strokeStyle = rgba(dk(x.body, 0.22), 0.55); c.lineWidth = 1.8; const by0 = g.top + hh * 0.9;   // the crab body's shell plates
+        for (let k = 1; k <= by(S, 2, 3, 3); k++) { const y = by0 + (g.bot - by0) * k / 4; c.beginPath(); c.moveTo(g.cx - g.bw * 0.32, y - 2); c.quadraticCurveTo(g.cx, y + 4, g.cx + g.bw * 0.32, y - 2); c.stroke(); } },
+      hl: g => [g.left + g.bw * 0.12, g.top + g.bh * 0.34, g.left + g.bw * 0.16, g.top + g.bh * 0.12, g.left + g.bw * 0.36, g.top + g.bh * 0.03],
+      head: g => [g.cx, g.top, g.bw * 0.46],
+      face(c, g, x, look) { const hh = FAM.Migo.hh(g); return faceTwo(c, g, x, look, { ey: hh * 0.48 / g.bh, ex: 0.18, my: hh * 0.74 / g.bh, s: by(g.stage, 0.72, 0.8, 0.86) }); }
     },
     /* ---------- special Snabits: found only through a colour easter egg, and only fusion changes their element ---------- */
     /* Eagle: a round bird with a white head, a hooked yellow beak, fanned wings and yellow talons (the stars-and-stripes egg) */
